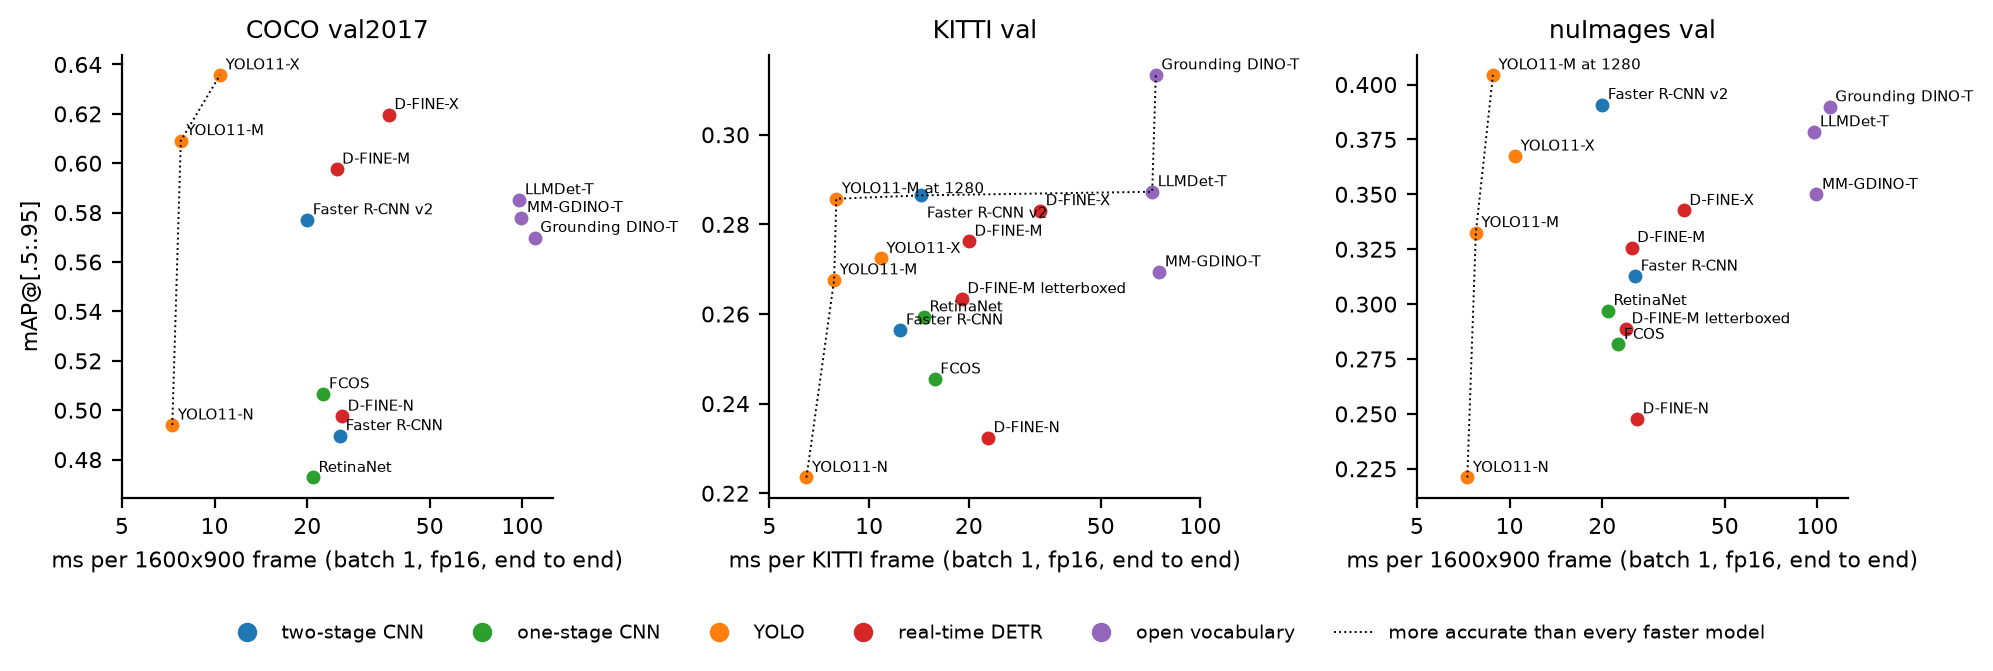
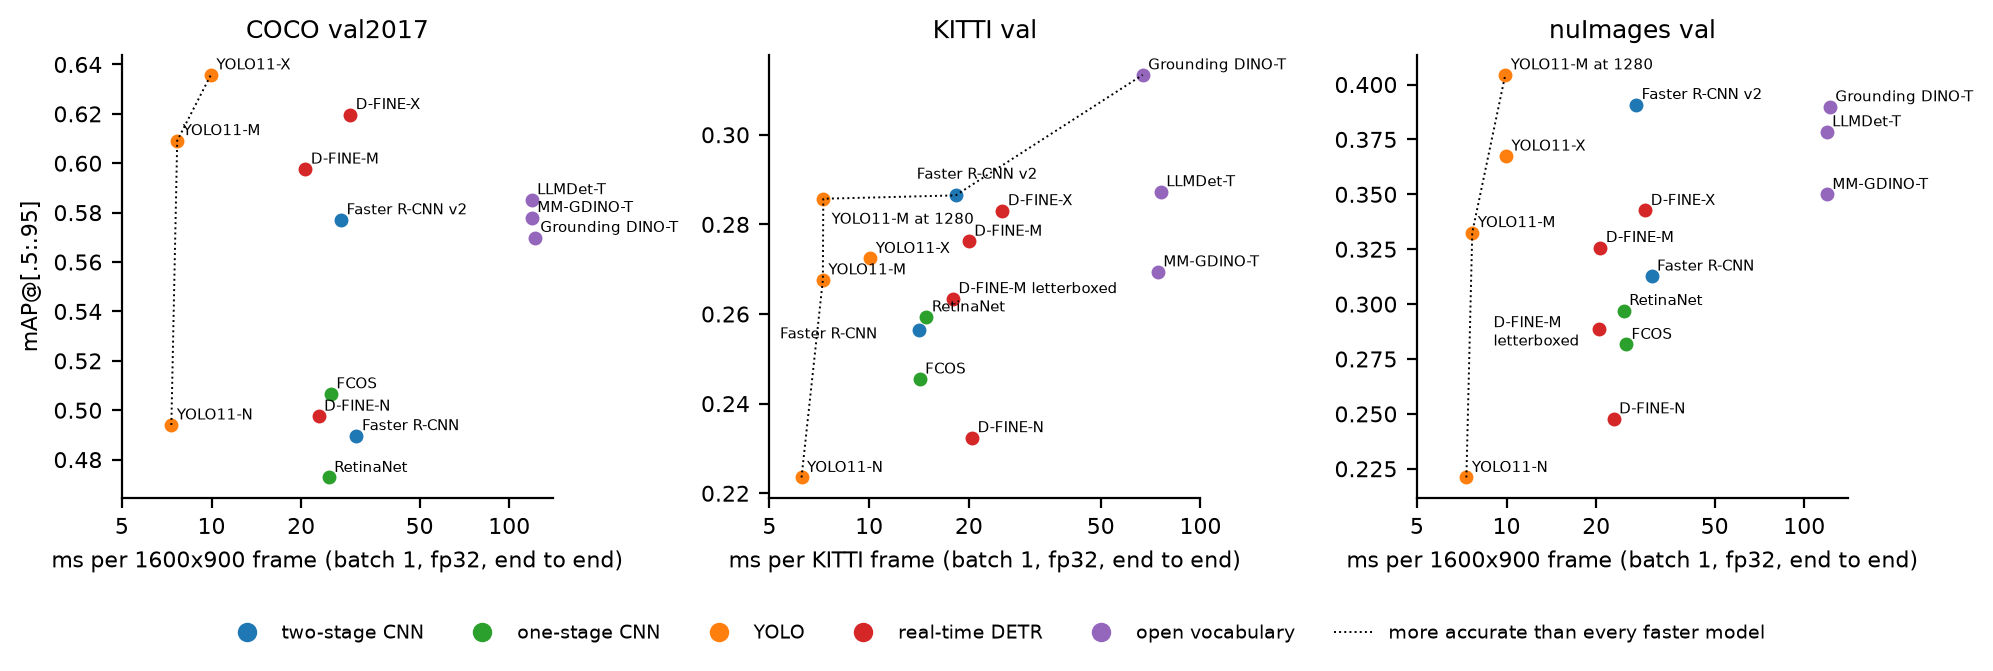
NMS check covers the open-vocabulary models with per-class AP; LLMDet published COCO AP; speed figure in fp32; run scripts produce every file the analysis reads; README: training data, size rules, fusion details, checkpoint layout, CPU-run summary

diff --git a/scripts/analyze.py b/scripts/analyze.py
@@ -495,7 +495,7 @@ PUBLISHED_COCO_AP = {  # COCO val2017 box AP from the model's own documentation 
     "gdino:IDEA-Research/grounding-dino-tiny@coco80": 48.4,
     "yolo:yolo11n.pt@single": 39.5,
     "gdino:openmmlab-community/mm_grounding_dino_tiny_o365v1_goldg_grit_v3det@coco80": 50.4,
-    # LLMDet is trained on GroundingCap-1M, which contains COCO images: no zero-shot reference
+    "gdino:iSEE-Laboratory/llmdet_tiny@coco80": 55.6,   # LLMDet paper, Table 4; trained with COCO images
 }
 
 
@@ -552,8 +552,33 @@ def _unified_nms(dets, thr=0.7):
 
 def _nms_job(runs, data, spec, ds):
     _, gt, dets = A.prepare(det_path(runs, spec, ds), native_path(data, ds), spec, A.settings())
-    return {"spec": spec, "dataset": ds, "AP": A.coco_stats(gt, dets)["AP"],
-            "AP_unified_nms_0.7": A.coco_stats(gt, _unified_nms(dets))["AP"]}
+    out = {"spec": spec, "dataset": ds}
+    for key, d in (("", dets), ("_unified_nms_0.7", _unified_nms(dets))):
+        m, _ = match(gt, d)
+        out["AP" + key] = A.coco_stats(gt, d)["AP"]
+        out["per_class" + key] = {tx.CLASSES[k - 1]: APCache(m[k]).ap() for k in m}
+    return out
+
+
+NMS_SPECS = ("yolo:yolo11x.pt", "dfine:x", "tv:fasterrcnn_resnet50_fpn_v2", "tv:retinanet_resnet50_fpn",
+             "gdino:IDEA-Research/grounding-dino-tiny",
+             "gdino:openmmlab-community/mm_grounding_dino_tiny_o365v1_goldg_grit_v3det",
+             "gdino:iSEE-Laboratory/llmdet_tiny")
+
+
+def nms_check(a):
+    """Class-wise NMS (IoU 0.7) after mapping to the unified classes: removes
+    boxes that two source classes or two prompt terms both produced."""
+    return pool_map(_nms_job, [(a.runs, a.data, s, ds) for s in NMS_SPECS for ds in ("kitti_val", "nuimages_val")],
+                    a.procs)
+
+
+def section_unified_nms(a):
+    """Re-run only the NMS check and update robustness.json in place."""
+    f = REPO / "results" / "robustness.json"
+    out = json.loads(f.read_text())
+    out["unified_nms"] = nms_check(a)
+    save("robustness", out)
 
 
 def section_robustness(a):
@@ -596,10 +621,7 @@ def section_robustness(a):
     jobs += [(a.runs, a.data, x, y, "coco_val", cls, "none") for x, y in ROBUST_PAIRS for cls in (1, 2)]
     out["class_contrasts"] = pool_map(_class_contrast_job, jobs, a.procs)
     # 3. NMS after merging COCO classes into the unified ones
-    out["unified_nms"] = pool_map(_nms_job, [(a.runs, a.data, s, ds) for s in
-                                             ("yolo:yolo11x.pt", "dfine:x", "tv:fasterrcnn_resnet50_fpn_v2",
-                                              "tv:retinanet_resnet50_fpn") for ds in ("kitti_val", "nuimages_val")],
-                                  a.procs)
+    out["unified_nms"] = nms_check(a)
     # 4. YOLO NMS mode under the tutorial protocol, same 500 nuImages frames
     nm = {}
     for spec, ds in (("yolo:yolo11x.pt@single", "nuimages_ngdet500"), ("yolo:yolo11x.pt", "nuimages_val")):

diff --git a/scripts/figures.py b/scripts/figures.py
@@ -119,8 +119,14 @@ def fig_height(main):
     plt.close(fig)
 
 
+LABEL_OFFSET = {("kitti_val", "Faster R-CNN v2"): (-14, 6), ("kitti_val", "YOLO11-M at 1280"): (3, -9),
+                ("kitti_val", "Faster R-CNN"): (-50, -3), ("nuimages_val", "D-FINE-M letterboxed"): (-38, -6)}
+LABEL_TEXT = {("nuimages_val", "D-FINE-M letterboxed"): "D-FINE-M\nletterboxed"}
+
+
 def fig_speed(main, lat_nuim, lat_kitti):
-    """Accuracy against batch-1 fp16 end-to-end latency, one panel per dataset.
+    """Accuracy against batch-1 fp32 end-to-end latency (the precision the accuracy
+    runs used), one panel per dataset.
     KITTI uses latency measured on KITTI frames; COCO and nuImages use latency
     on a 1600x900 nuImages frame, the cost of one driving camera frame."""
     from matplotlib.lines import Line2D
@@ -131,11 +137,11 @@ def fig_speed(main, lat_nuim, lat_kitti):
         for r in main:
             if r["dataset"] != ds or r["spec"] not in lat:
                 continue
-            t = lat[r["spec"]]["fp16_end_to_end_ms_median"]
+            t = lat[r["spec"]]["fp32_end_to_end_ms_median"]
             pts.append((t, r["stats"]["AP"], r["model"], r["family"]))
             ax.scatter(t, r["stats"]["AP"], color=FAMILY_COLOR[r["family"]], s=16)
-            below = (ds, r["model"]) in {("kitti_val", "Faster R-CNN v2")}   # avoid a label collision
-            ax.annotate(r["model"], (t, r["stats"]["AP"]), fontsize=5.5, xytext=(2, -8 if below else 2),
+            off = LABEL_OFFSET.get((ds, r["model"]), (2, 2))   # move labels that would collide
+            ax.annotate(LABEL_TEXT.get((ds, r["model"]), r["model"]), (t, r["stats"]["AP"]), fontsize=5.5, xytext=off,
                         textcoords="offset points")
         pts.sort()
         front, best = [], -1
@@ -148,7 +154,7 @@ def fig_speed(main, lat_nuim, lat_kitti):
         ax.set_xticks([5, 10, 20, 50, 100], ["5", "10", "20", "50", "100"])
         ax.minorticks_off()
         res = "KITTI frame" if ds == "kitti_val" else "1600x900 frame"
-        ax.set_xlabel(f"ms per {res} (batch 1, fp16, end to end)")
+        ax.set_xlabel(f"ms per {res} (batch 1, fp32, end to end)")
         ax.set_title(DS_LABEL[ds])
     axes[0].set_ylabel("mAP@[.5:.95]")
     fig.legend(handles=[Line2D([], [], marker="o", ls="", color=c, label=f) for f, c in FAMILY_COLOR.items()]

diff --git a/README.md b/README.md
@@ -1,10 +1,12 @@
 # COCO to driving: how far do 2D detectors transfer, and how much does the protocol decide?
 
-Thirteen COCO-trained detectors from five families (two-stage CNN, one-stage CNN, YOLO, real-time
-DETR, open vocabulary) evaluated zero-shot on COCO val2017, KITTI val and the full nuImages validation set,
-plus fine-tuning on KITTI, a latency benchmark and a pedestrian subgroup analysis. Every mAP comes
-with a 95% confidence interval from a bootstrap that resamples whole drives (KITTI) or logs
-(nuImages), and every difference called significant is a paired test on the same images.
+Thirteen pretrained detectors from five families (two-stage CNN, one-stage CNN, YOLO, real-time
+DETR, open vocabulary; ten trained on COCO, three open-vocabulary models trained on Objects365 and
+grounding data) evaluated without retraining on COCO val2017, KITTI val and the full nuImages validation set,
+plus fine-tuning on KITTI, a latency benchmark and a pedestrian subgroup analysis. Every main-table mAP
+comes with a 95% confidence interval from a bootstrap that resamples whole drives (KITTI), logs
+(nuImages) or images (COCO), and every difference called significant is a paired test on the same
+images.
 
 The work starts from the zero-shot harness in the
 [DeepDataMiningLearning ngdet tutorial](https://github.com/lkk688/DeepDataMiningLearning/tree/main/DeepDataMiningLearning/ngdet),
@@ -25,7 +27,7 @@ as caveats (fixed score threshold, cyclist mapping, sample size) change the answ
    to 0.326 on nuImages. On KITTI the model ranking changes substantially (Kendall tau 0.36 between the
    two protocols). The fixed 0.3 score cut-off alone costs YOLO models 0.04 to 0.07 mAP on nuImages
    and COCO.
-3. **COCO tracks the vehicle ranking better than the pedestrian ranking.** On matched classes, COCO and
+3. **COCO tends to track the vehicle ranking better than the pedestrian ranking.** On matched classes, COCO and
    the driving datasets agree on the vehicle ranking at Spearman 0.77 (KITTI) and 0.68 (nuImages) but on
    the person ranking at 0.27 and 0.50, while KITTI and nuImages agree on persons at 0.84. With 13 models
    the bootstrap intervals overlap (results/robustness.json), so this is a tendency. YOLO11-X leads Faster R-CNN v2 by about 0.06 AP on
@@ -88,9 +90,9 @@ the JSON files in [results/](results).
 | D-FINE-M letterboxed | real-time DETR | | 0.263 [0.246, 0.310] | 0.289 [0.265, 0.308] |
 
 COCO mAP is the mean of vehicle and person AP (cyclist is not scored on COCO); KITTI and nuImages mAP
-average all three classes. Open-vocabulary COCO numbers are not zero-shot: all three were trained on
-GoldG (Flickr30k and GQA grounding data; GQA images come from Visual Genome and overlap COCO), and
-LLMDet's caption data contains COCO images.
+average all three classes. Grounding DINO-T and MM-GDINO-T never saw COCO images (their GoldG grounding data
+excludes them), so their COCO numbers are zero-shot as their authors report them; LLMDet's caption
+data contains COCO images, so its COCO number is not.
 
 ## What is evaluated
 
@@ -123,17 +125,20 @@ with one box around both, as KITTI and nuImages label it. A class is scored only
 the COCO vocabulary define it the same way. Everything else becomes an ignore region: a detection inside
 one is neither a true nor a false positive.
 
-| dataset | vehicle | person | cyclist | ignored for every class |
+| dataset | vehicle | person | cyclist | ignored for every class; size rule |
 |---|---|---|---|---|
-| KITTI | Car, Van, Truck, Tram | Pedestrian | Cyclist | DontCare, Misc, Person_sitting; boxes under 25 px tall (KITTI benchmark rule) |
-| nuImages | car, truck, bus, emergency | adult, child, construction worker, police officer | bicycle with rider | parked bicycles, motorcycles, bicycle racks, trailers, construction vehicles, strollers, wheelchairs, personal mobility; detections under 10 px (annotation rule) |
+| KITTI | Car, Van, Truck, Tram | Pedestrian | Cyclist | DontCare, Misc, Person_sitting. Size: scored objects under 25 px tall are ignored for their own class and detections under 25 px are dropped (KITTI benchmark rule) |
+| nuImages | car, truck, bus, emergency | adult, child, construction worker, police officer | bicycle with rider | parked bicycles, motorcycles, bicycle racks, trailers, construction vehicles, strollers, wheelchairs, personal mobility. Size: objects and detections under 10 px are treated the same way (annotation rule) |
 | COCO | car, bus, truck, train | person | not scored | bicycle, motorcycle; crowd boxes ignore their own class |
 
-COCO-trained models see a cyclist as a person plus a bicycle. **Rider fusion** pairs a person with a
-bicycle when the bicycle scores at least 0.1, the lower half of the person box overlaps the bicycle box by
-at least 70% and the person's centre lies over the bicycle; the pair becomes one cyclist box. The two
+Detectors with COCO's categories (and the open-vocabulary models, prompted with 'person' and
+'bicycle') see a cyclist as a person plus a bicycle. **Rider fusion** pairs a person with a bicycle when
+the bicycle scores at least 0.1, the lower half of the person box overlaps the bicycle box by at least
+70% and the person's horizontal centre lies within the bicycle box; the pair becomes one cyclist box.
+Persons over a motorcycle are removed the same way, because both datasets put a motorcyclist inside
+the motorcycle box. The two
 thresholds were chosen on KITTI *train* predictions of one model (Faster R-CNN v2) and fixed for every
-model and dataset. On nuImages, whose labels say whether each bicycle has a rider, fusion confidently pairs
+model and dataset (0.1 is the lowest score floor in the grid). On nuImages, whose labels say whether each bicycle has a rider, fusion confidently pairs
 (for the ten closed-set models) 49 to 92% of detected bicycles with riders and 2 to 34% of parked ones. On nuImages it raises cyclist AP
 from between 0.03 and 0.09 to between 0.18 and 0.45, but it lowers person AP for most models (by up to
 0.11 for FCOS), because pedestrians standing next to parked bicycles are absorbed (results/fusion.json).
@@ -148,7 +153,8 @@ must agree.
 Hardware used: one RTX 4090 (24 GB), 32 CPU cores, 108 GB RAM, rented on vast.ai. The run logs record
 13.0 GPU hours of inference (most of it the open-vocabulary models on nuImages) and 3.3 hours of
 fine-tuning. Software: Python 3.12,
-torch 2.11.0+cu128, torchvision 0.26.0, transformers 5.22.1, ultralytics 8.4.197 (requirements.txt).
+torch 2.11.0+cu128, torchvision 0.26.0, transformers 5.22.1, ultralytics 8.4.197 (install torch and torchvision for your CUDA version first; the rest is in requirements.txt). One
+small check, YOLO11-N with single-label NMS on COCO, was run on an Apple GPU (MPS) with torch 2.15.0.
 
 ```bash
 git clone https://github.com/uday1o1/coco-to-driving-detection && cd coco-to-driving-detection
@@ -163,12 +169,16 @@ bash scripts/run_analysis.sh       # CPU only: every file in results/ and figure
 
 **Without a GPU.** The stored detections and fine-tuned checkpoints are attached to the
 [v1.0 release](https://github.com/uday1o1/coco-to-driving-detection/releases/tag/v1.0)
-(detections.tar, 1.6 GB; finetuned_checkpoints.tar, 0.6 GB; SHA-256 sums in the release notes).
+(detections.tar, 1.6 GB; finetuned_checkpoints.tar, 0.6 GB; SHA-256 sums in the release notes). To evaluate the fine-tuned models without
+training, put `ckpt/yolo11m_kitti_seed<s>.pt` at `$RUNS/ft/yolo11m_seed<s>/weights/last.pt` and
+`ckpt/fasterrcnn_v2_kitti_seed<s>.pt` at `$RUNS/ft/frcnn_v2_seed<s>/last.pt`, create an empty-object
+`done.json` (`echo {} > done.json`) in each of those run folders, and run `scripts/run_finetune.sh`.
 Extract detections.tar into `$RUNS`, put the two `yolo_yolo11n.pt_single__coco_val` files from the
 same release into `$RUNS/dets` (the single-label NMS check), run `NO_IMAGES=1 bash scripts/setup.sh` (annotations and metadata
-only, about 1 GB) and then `scripts/run_analysis.sh`. Images are needed only for the qualitative figure.
-[logs/analysis_cpu_rerun.log](logs/analysis_cpu_rerun.log) records this path on a fresh CPU-only machine:
-every result file that existed before it came out byte-identical.
+only: about 1 GB to download, 2.9 GB on disk) and then `scripts/run_analysis.sh`. Images are needed only for the qualitative figure.
+[logs/analysis_cpu_rerun.log](logs/analysis_cpu_rerun.log) summarises this path on a fresh CPU-only machine:
+the eight sections whose code was unchanged (main, reproduction, audit, stability, fusion,
+fine-tuning, prompts, contrasts) came out byte-identical to the files computed on the GPU machine.
 
 Tests: `python -m pytest tests -q` (evaluator against pycocotools, rider fusion).
 
@@ -196,7 +206,7 @@ tests/      evaluator and fusion tests
 
 ## Scope and limits
 
-KITTI val has 45 drives, so its intervals are wide (about +-0.05); differences between models on KITTI
+KITTI val has 45 drives, so its intervals are wide (about ±0.04) and asymmetric; differences between models on KITTI
 need the paired tests in results/contrasts.json. nuImages val has 192 night frames, all from one log, so
 lighting is not analysed. Police officers (96) and children (251) are small groups; their intervals
 reflect that. Latency is measured with each library's PyTorch path at batch 1 without TensorRT, so it
